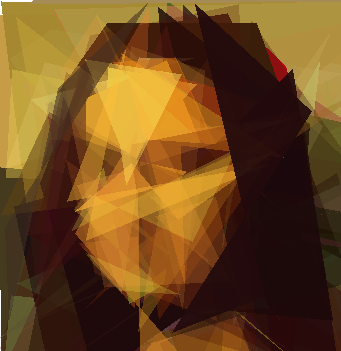
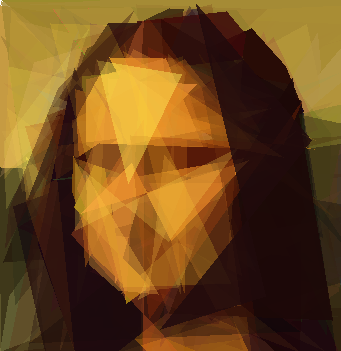
20210101

diff --git a/main.py b/main.py
@@ -10,7 +10,7 @@ if __name__ == '__main__':
     triangle_number = 200#三角形数目
     size = (341, 351)#图片大小,与figure一致
     population = 4#种群数量
-    Variation_posibility=60
+    Variation_posibility = 60
     target = np.array(misc.imread(r"figure.png",
                                   mode="RGB"),
                       dtype=float)#目标图片
@@ -24,6 +24,8 @@ if __name__ == '__main__':
     elif mode1 == 0:
         for i in range(population):
             populations.append(tools.Generate_chromosome(triangle_number,size))
+    else:
+        raise Exception
     #主循环
     for a in range(100000000):
         head = time.time()
@@ -62,7 +64,7 @@ if __name__ == '__main__':
             populations.append(tools.Variation(tools.Hybridization(father[d][1],
                                                                    mother[d][1]),
                                                triangle_number,
-                                               'medium', Variation_posibility ,size))  # 百分之x几率变异
+                                               'soft', Variation_posibility ,size))  # 百分之x几率变异
             populations.append(tools.Variation(tools.Hybridization(father[d][1],
                                                                    mother[d][1]),
                                                triangle_number,
